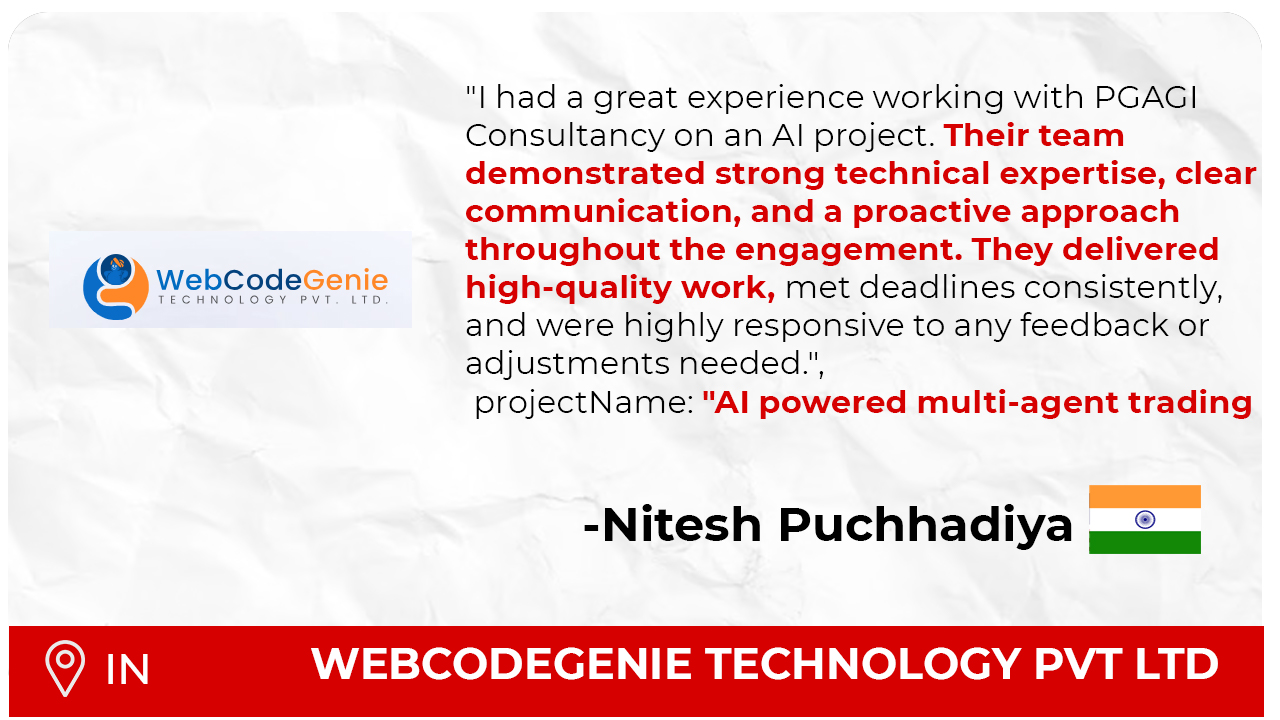
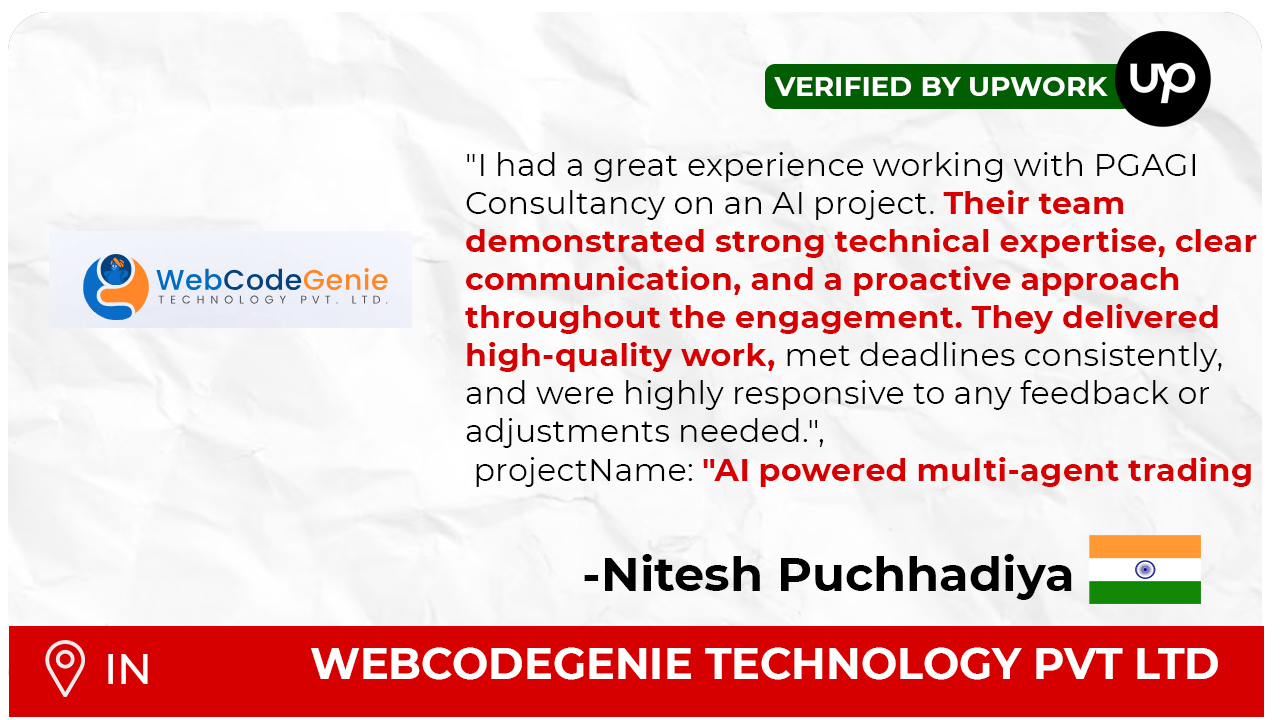
updated testimonials

Changed region(s): [[0.3438, 0.0306, 1.0, 0.6111], [0.375, 0.6417, 1.0, 0.8556]]

diff --git a/src/app/components/VideoTestimonial.tsx b/src/app/components/VideoTestimonial.tsx
@@ -754,7 +754,7 @@ const testimonialImages: string[] = [
   // "/images/testimonials/Artboard 1 copy 12.jpg",
   "/images/testimonials/Artboard 1 copy 13.jpg",
   // "/images/testimonials/Artboard 1 copy 14.jpg",
-  "/images/testimonials/FOMO (2).jpg",
+  "/images/testimonials/FOMO (3).jpg",
   "/images/testimonials/Artboard 1 copy.jpg",
   // "/images/testimonials/Artboard 1.jpg",
    "/images/testimonials/Artboard 1 copy 5.jpg",
